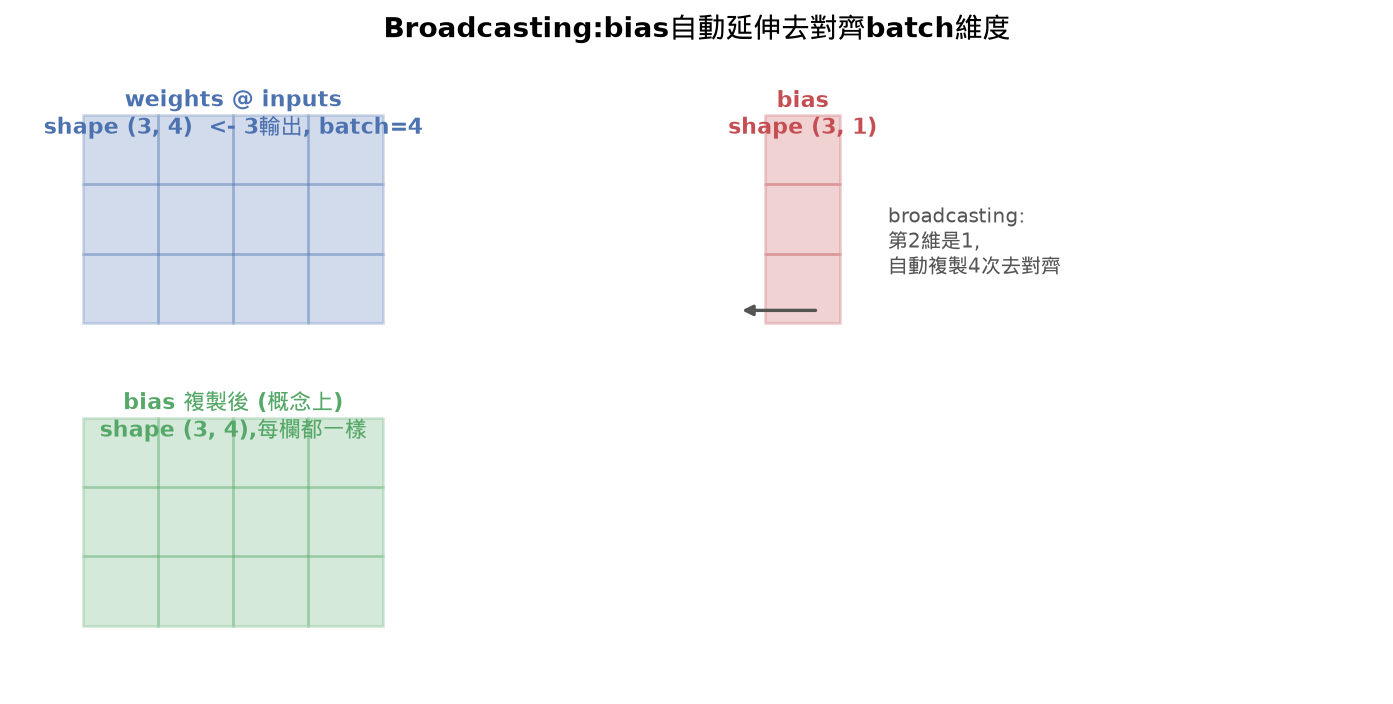
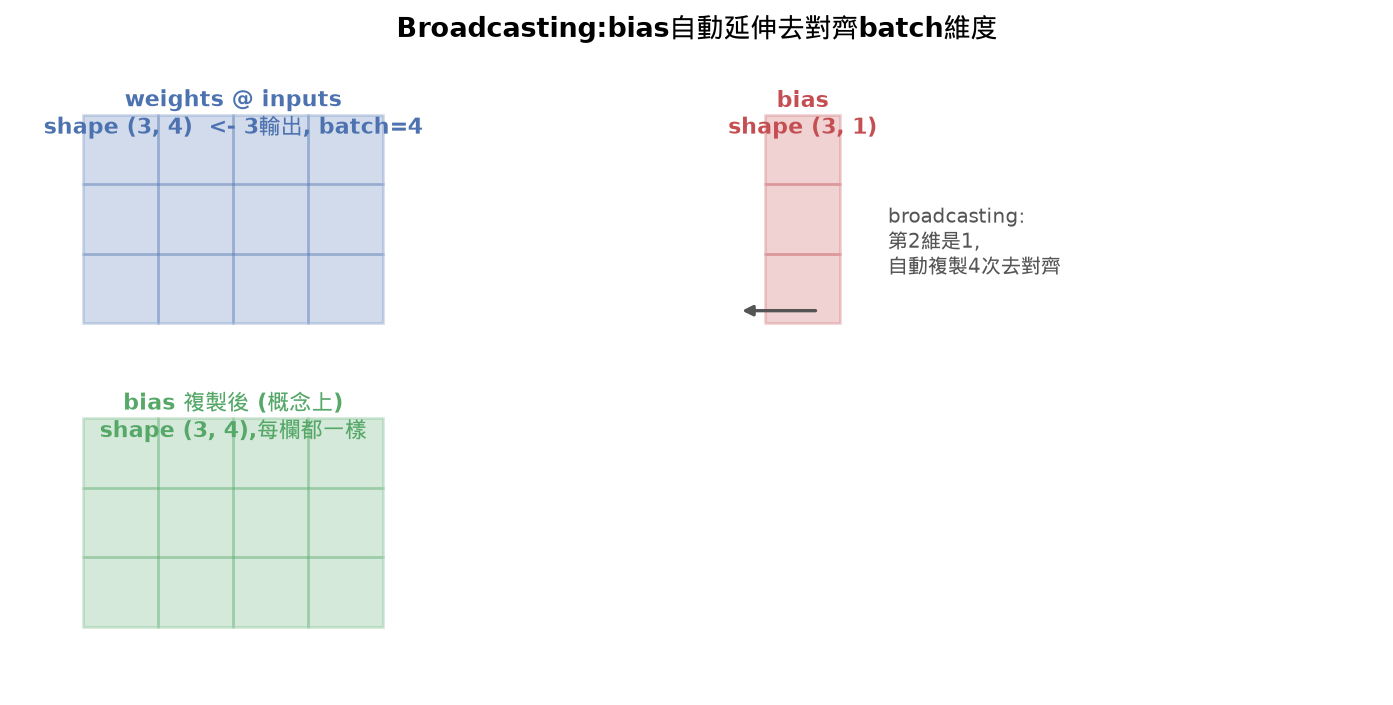
Lesson 2 diagrams: unify visual style
Regenerate with the shared plot style module.

Changed region(s): [[0.2778, 0.0, 0.7408, 0.0625], [0.0926, 0.5625, 0.1852, 0.5938], [0.1852, 0.5938, 0.2161, 0.625]]

diff --git a/01-math-foundations/02-vectors-matrices-operations/images/make_determinant_demo.py b/01-math-foundations/02-vectors-matrices-operations/images/make_determinant_demo.py
@@ -7,9 +7,10 @@ import matplotlib.font_manager as fm
 import matplotlib.pyplot as plt
 import numpy as np
 
-fm.fontManager.addfont("/usr/share/fonts/truetype/droid/DroidSansFallbackFull.ttf")
-matplotlib.rcParams["font.family"] = ["DejaVu Sans", "Droid Sans Fallback"]
-matplotlib.rcParams["axes.unicode_minus"] = False
+import sys
+sys.path.insert(0, "../../_shared")
+from plot_style import setup_style, BLUE, RED, GREEN, PURPLE, GOLD, GRAY
+setup_style()
 
 unit_square = np.array([[0, 0], [1, 0], [1, 1], [0, 1], [0, 0]])
 
@@ -28,16 +29,16 @@ for ax, (title, M), c in zip(axes, matrices.items(), colors):
     ax.fill(unit_square[:, 0], unit_square[:, 1], color="#999999", alpha=0.12)
     ax.plot(transformed[:, 0], transformed[:, 1], color=c, lw=2.4, label="轉換後")
     ax.fill(transformed[:, 0], transformed[:, 1], color=c, alpha=0.28)
-    ax.set_title(title, fontsize=10.5, fontweight="bold", color=c)
+    ax.set_title(title, fontsize=11.5, fontweight="bold", color=c)
     ax.set_xlim(-1, 4)
     ax.set_ylim(-1, 3)
     ax.set_aspect("equal")
     ax.grid(alpha=0.3, linestyle="--")
     ax.axhline(0, color="#bbbbbb", lw=0.6)
     ax.axvline(0, color="#bbbbbb", lw=0.6)
-    ax.legend(fontsize=7.5, loc="upper left")
+    ax.legend(loc="upper left")
 
-fig.suptitle("Determinant:單位正方形被放大/縮小/壓扁的比例", fontsize=13.5, fontweight="bold")
+fig.suptitle("Determinant:單位正方形被放大/縮小/壓扁的比例")
 plt.tight_layout()
 plt.savefig("determinant_area_scaling.png", dpi=150, bbox_inches="tight")
 print("saved")

diff --git a/01-math-foundations/02-vectors-matrices-operations/images/make_elementwise_vs_matmul_demo.py b/01-math-foundations/02-vectors-matrices-operations/images/make_elementwise_vs_matmul_demo.py
@@ -6,9 +6,10 @@ import matplotlib.font_manager as fm
 import matplotlib.pyplot as plt
 import numpy as np
 
-fm.fontManager.addfont("/usr/share/fonts/truetype/droid/DroidSansFallbackFull.ttf")
-matplotlib.rcParams["font.family"] = ["DejaVu Sans", "Droid Sans Fallback"]
-matplotlib.rcParams["axes.unicode_minus"] = False
+import sys
+sys.path.insert(0, "../../_shared")
+from plot_style import setup_style, BLUE, RED, GREEN, PURPLE, GOLD, GRAY
+setup_style()
 
 A = np.array([[1, 2], [3, 4]])
 B = np.array([[5, 6], [7, 8]])
@@ -22,7 +23,7 @@ def draw_grid(ax, M, title, color, highlight=None):
     ax.set_ylim(0, M.shape[0])
     ax.invert_yaxis()
     ax.set_aspect("equal")
-    ax.set_title(title, fontsize=12, fontweight="bold", color=color)
+    ax.set_title(title, fontsize=11.5, fontweight="bold", color=color)
     for i in range(M.shape[0]):
         for j in range(M.shape[1]):
             fc = "#FDECEC" if highlight == (i, j) else "#F0F0F0"
@@ -37,7 +38,7 @@ axes[0].text(1, 2.3, "[0][0] = 1*5 = 5\n(對應位置直接乘)", fontsize=9, ha
 draw_grid(axes[1], mat, "A @ B (matrix multiply)\n列跟行做內積", "#C44E52")
 axes[1].text(1, 2.3, "[0][0] = 1*5+2*7 = 19\n(row0 · col0,做內積)", fontsize=9, ha="center", color="#C44E52")
 
-fig.suptitle("Element-wise vs Matrix Multiply:同樣的A、B,結果完全不同", fontsize=13.5, fontweight="bold")
+fig.suptitle("Element-wise vs Matrix Multiply:同樣的A、B,結果完全不同")
 plt.tight_layout()
 plt.savefig("elementwise_vs_matmul.png", dpi=150, bbox_inches="tight")
 print("saved")

diff --git a/01-math-foundations/02-vectors-matrices-operations/images/make_transpose_demo.py b/01-math-foundations/02-vectors-matrices-operations/images/make_transpose_demo.py
@@ -6,9 +6,10 @@ import matplotlib.font_manager as fm
 import matplotlib.pyplot as plt
 import numpy as np
 
-fm.fontManager.addfont("/usr/share/fonts/truetype/droid/DroidSansFallbackFull.ttf")
-matplotlib.rcParams["font.family"] = ["DejaVu Sans", "Droid Sans Fallback"]
-matplotlib.rcParams["axes.unicode_minus"] = False
+import sys
+sys.path.insert(0, "../../_shared")
+from plot_style import setup_style, BLUE, RED, GREEN, PURPLE, GOLD, GRAY
+setup_style()
 
 A = np.array([[1, 2, 3], [4, 5, 6]])
 AT = A.T
@@ -24,12 +25,11 @@ for ax, M, title, hi in zip(axes, [A, AT], [f"A  shape={A.shape}", f"A.T  shape=
             ax.text(j, i, str(M[i, j]), ha="center", va="center", fontsize=13, fontweight="bold")
     ax.set_xlim(-0.5, M.shape[1] - 0.5)
     ax.set_ylim(M.shape[0] - 0.5, -0.5)
-    ax.set_title(title, fontsize=12, fontweight="bold")
+    ax.set_title(title, fontsize=11.5, fontweight="bold")
     ax.set_xticks([]); ax.set_yticks([])
 
 axes[0].text(2, 0, "", fontsize=1)
-fig.suptitle("transpose(轉置):A[0][2]=3 轉置後變成 A.T[2][0]=3(紅框標示同一個數字)",
-             fontsize=11.5, fontweight="bold")
+fig.suptitle("transpose(轉置):A[0][2]=3 轉置後變成 A.T[2][0]=3(紅框標示同一個數字)")
 plt.tight_layout()
 plt.savefig("transpose.png", dpi=150, bbox_inches="tight")
 print("saved")

diff --git a/01-math-foundations/02-vectors-matrices-operations/images/make_inverse_identity_demo.py b/01-math-foundations/02-vectors-matrices-operations/images/make_inverse_identity_demo.py
@@ -7,9 +7,10 @@ import matplotlib.font_manager as fm
 import matplotlib.pyplot as plt
 import numpy as np
 
-fm.fontManager.addfont("/usr/share/fonts/truetype/droid/DroidSansFallbackFull.ttf")
-matplotlib.rcParams["font.family"] = ["DejaVu Sans", "Droid Sans Fallback"]
-matplotlib.rcParams["axes.unicode_minus"] = False
+import sys
+sys.path.insert(0, "../../_shared")
+from plot_style import setup_style, BLUE, RED, GREEN, PURPLE, GOLD, GRAY
+setup_style()
 
 A = np.array([[2.0, 0.5], [0.3, 1.5]])
 A_inv = np.linalg.inv(A)
@@ -30,9 +31,8 @@ ax.axvline(0, color="#999999", lw=0.8)
 ax.set_xlim(-0.5, 3); ax.set_ylim(-0.5, 3)
 ax.set_aspect("equal")
 ax.grid(alpha=0.3, linestyle="--")
-ax.legend(loc="upper left", fontsize=10, framealpha=0.9)
-ax.set_title("inverse(逆矩陣):A⁻¹ 把 A 搬過去的東西「搬回來」\nA @ A⁻¹ = identity matrix(單位矩陣,乘上任何東西不改變它)",
-             fontsize=11.5, fontweight="bold")
+ax.legend(loc="upper left", framealpha=0.9)
+ax.set_title("inverse(逆矩陣):A⁻¹ 把 A 搬過去的東西「搬回來」\nA @ A⁻¹ = identity matrix(單位矩陣,乘上任何東西不改變它)")
 
 check = A @ A_inv
 ax.text(0.05, -0.35, f"驗證: A @ A⁻¹ ≈\n{np.round(check, 2)}", transform=ax.transAxes,

diff --git a/01-math-foundations/02-vectors-matrices-operations/images/make_relu_demo.py b/01-math-foundations/02-vectors-matrices-operations/images/make_relu_demo.py
@@ -6,9 +6,10 @@ import matplotlib.font_manager as fm
 import matplotlib.pyplot as plt
 import numpy as np
 
-fm.fontManager.addfont("/usr/share/fonts/truetype/droid/DroidSansFallbackFull.ttf")
-matplotlib.rcParams["font.family"] = ["DejaVu Sans", "Droid Sans Fallback"]
-matplotlib.rcParams["axes.unicode_minus"] = False
+import sys
+sys.path.insert(0, "../../_shared")
+from plot_style import setup_style, BLUE, RED, GREEN, PURPLE, GOLD, GRAY
+setup_style()
 
 x = np.linspace(-4, 4, 400)
 y = np.maximum(0, x)
@@ -22,8 +23,8 @@ ax.axvline(0, color="#999999", lw=0.8)
 ax.set_xlabel("輸入 x (即 W@x+b 算出來的值)", fontsize=10)
 ax.set_ylabel("relu(x) = max(0, x)", fontsize=10)
 ax.grid(alpha=0.3, linestyle="--")
-ax.legend(loc="upper left", fontsize=9.5)
-ax.set_title("relu:引入非線性,負數砍0、正數不變", fontsize=13, fontweight="bold")
+ax.legend(loc="upper left")
+ax.set_title("relu:引入非線性,負數砍0、正數不變")
 
 plt.tight_layout()
 plt.savefig("relu.png", dpi=150, bbox_inches="tight")

diff --git a/01-math-foundations/02-vectors-matrices-operations/images/make_broadcasting_demo.py b/01-math-foundations/02-vectors-matrices-operations/images/make_broadcasting_demo.py
@@ -5,9 +5,10 @@ import matplotlib
 import matplotlib.font_manager as fm
 import matplotlib.pyplot as plt
 
-fm.fontManager.addfont("/usr/share/fonts/truetype/droid/DroidSansFallbackFull.ttf")
-matplotlib.rcParams["font.family"] = ["DejaVu Sans", "Droid Sans Fallback"]
-matplotlib.rcParams["axes.unicode_minus"] = False
+import sys
+sys.path.insert(0, "../../_shared")
+from plot_style import setup_style, BLUE, RED, GREEN, PURPLE, GOLD, GRAY
+setup_style()
 
 fig, ax = plt.subplots(figsize=(9.5, 4.8))
 ax.set_xlim(0, 10)
@@ -30,7 +31,7 @@ ax.text(6.4, 3.3, "broadcasting:\n第2維是1,\n自動複製4次去對齊", font
 
 grid(0.5, 1.6, 3, 4, "#55A868", "bias 複製後 (概念上)\nshape (3, 4),每欄都一樣")
 
-ax.set_title("Broadcasting:bias自動延伸去對齊batch維度", fontsize=13.5, fontweight="bold", pad=10)
+ax.set_title("Broadcasting:bias自動延伸去對齊batch維度", pad=10)
 plt.tight_layout()
 plt.savefig("broadcasting_bias.png", dpi=150, bbox_inches="tight")
 print("saved")
